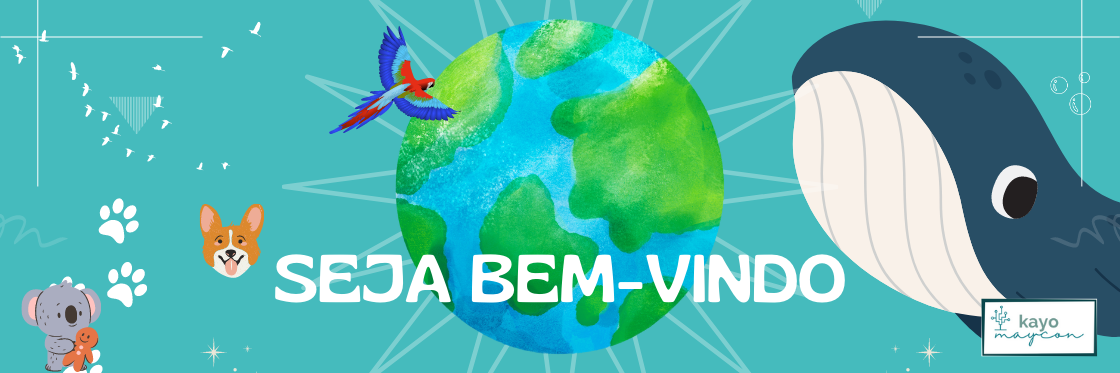
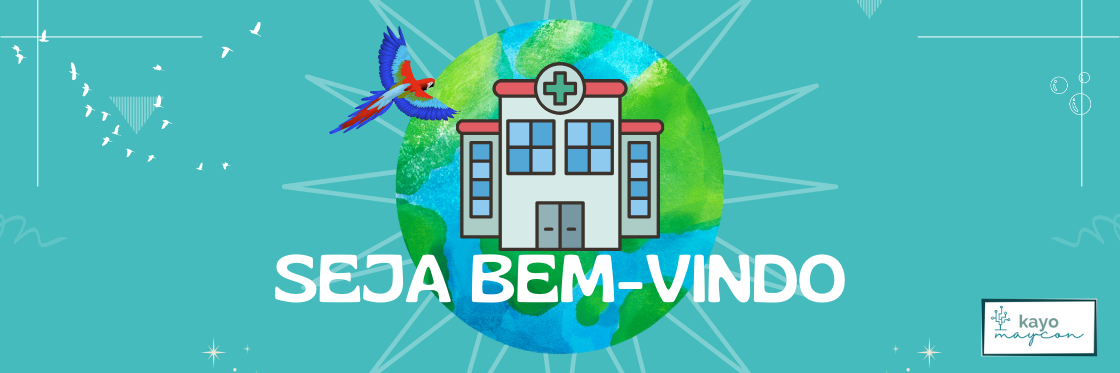
Portfólio

diff --git a/index.html b/index.html
@@ -1,9 +1,10 @@
 <!DOCTYPE html>
 <html lang="pt-br">
 <head>
-    <title>Petito</title>
+    <title>Meu Portfólio - MEDD80</title>
     <meta charset="utf-8">
     <meta name="viewport" content="width=device-width, initial-scale=1">
+    
     <link rel="stylesheet" href="css/style.css" type="text/css">
 
     <link rel="icon" href="icone/icone.png" type="image/x-icon">
@@ -25,8 +26,8 @@
                                 style="position: absolute;"
                                 src="imagens/logo.png"
                                 class="logo img-responsive"
-                                alt="Petito - Tudo sobre o mundo animal"
-                                title="Petito - Tudo sobre o mundo animal"
+                                alt="Meu Portfólio - MEDD80"
+                                title="Meu Portfólio - MEDD80"
                                 width="368"
                                 height="136"
                                 
@@ -47,12 +48,12 @@
 
             <ul>          
                 <li><a href = "#">Inicío</a></li>
-                <li><a href = "curiosidades.html">Curiosidades</a></li>
-                <li><a href = "selvagens.html">Selvagens</a></li>
-                <li><a href = "domesticos.html">Domésticos</a></li>
-                <li><a href = "extincao.html">Extinção</a></li>
-                <li><a href = "maus_tratos.html">Maus-tratos</a></li>
-                <li><a href = "nick.html">Nick</a></li>            
+                <li><a href = "modulo1.html">Módulo 1</a></li>
+                <li><a href = "selvagens.html">Módulo 2</a></li>
+                <li><a href = "domesticos.html">Módulo 3</a></li>
+                <li><a href = "extincao.html">Quem sou eu?</a></li>
+                <li><a href = "maus_tratos.html">Objetivos do projeto</a></li>
+                <li><a href = "nick.html">Galeria</a></li>            
     </ul>
 
     </nav>
@@ -66,6 +67,24 @@
                 <center><img src="imagens/Coala.gif" width="93" right="75px" ></center>
     
         </article>
+
+        <article class="card">
+        <div class="slider">            
+            <div class="slideshow" style="display: none;">
+              <figure><img alt="" src="imagens/foto1.png" /></figure>
+              <figure><img alt="" src="imagens/foto2.png" /></figure>
+              <figure><img alt="" src="imagens/foto3.png" /></figure>
+              <figure><img alt="" src="imagens/foto4.png" /></figure>
+              <figure><img alt="" src="imagens/foto5.png" /></figure>
+              <figure><img alt="" src="imagens/foto6.png" /></figure>
+              <figure><img alt="" src="imagens/foto7.png" /></figure>
+              <figure><img alt="" src="imagens/foto8.png" /></figure>
+              <span class="prev" style="display:none;"><i class="fas fa-angle-left fa-4x"></i></span>
+              <span class="next" style="display:none;"><i class="fas fa-angle-right fa-4x"></i></span>
+            </div>                    
+          </div>
+        </article>
+
         <article class="card">
 
             <h2>Já ouviu falar em animais pré-históricos?</h2>
@@ -75,6 +94,7 @@
             width="100%">
 
         </article>
+
         <article class="card">
 
             <h2>Veja mais sobre aqueles que comandam as madrugadas!</h2>

diff --git a/modulo1.html b/modulo1.html
@@ -59,9 +59,9 @@
     <div class="row">
         <section>
             <article class="card">
-                <div style="background-color:#f39c12; border-radius:10px; box-shadow:rgba(0, 0, 0, 0.15) 0px -2px inset; color:#ffffff; font-family:Cabin,sans-serif; font-size:22px; height:40px; line-height:40px; margin-left:-6px; padding-left:10px; padding-right:10px; position:relative; text-align:center; text-shadow:rgba(0, 0, 0, 0.4) 0px 1px; vertical-align:baseline"><strong>&nbsp;CURIOSIDADES DO MUNDO ANIMAL QUE VOCÊ NÃO CONHECIA&nbsp;</strong></div>
+                <div style="background-color:#f39c12; border-radius:10px; box-shadow:rgba(0, 0, 0, 0.15) 0px -2px inset; color:#ffffff; font-family:Cabin,sans-serif; font-size:22px; height:40px; line-height:40px; margin-left:-6px; padding-left:10px; padding-right:10px; position:relative; text-align:center; text-shadow:rgba(0, 0, 0, 0.4) 0px 1px; vertical-align:baseline"><strong>&nbsp;Saúde&nbsp;</strong></div>
 
-                <p style="text-align: justify; color: #333;">Quando se trata da vida animal logo imaginamos uma variedade de espécies, seres que vivem nas profundezas da terra, em densas florestas, acima das nuvens, no fundo do mar e até dentro de outros organismos. É muita coisa incrível pra se ver, por isso o Petito selecionou um apanhado de fatos curiosos que vão fazer a sua cabeça explodir!</p>
+                <p style="text-align: justify; color: #333;">"A Saúde é tudo, né?" ... "Na minha juventude, quando eu ainda era gente" ... "Uma pessoa sem Saúde não tem valor" ... "Meu corpo inteiro dói, acordo e durmo com dor" ... "Sabe... às vezes eu penso que seria melhor não viver, porque é difícil" ... "O meu maior medo é viver sendo um incômodo, dando trabalho para os outros" ... "É preciso se cuidar, pois não temos como tratar uma doença" ... "Ele sofreu um acidente de moto. Ficou cego... tão jovem e já perdeu toda uma vida" ... "Quando você pega uma doença muito séria, é pagando pelos pecados dos seus antepassados".</p>
                 <center><img style="border-radius: 30px; box-shadow: 1px 1px 3px #696969;" src="imagens/foto1.png" alt="Post - Curiosidades">
                 <p style="font-weight: bold; font-size: 10px; font-family: monospace;">(Fonte: Pixabay &#60;acessado em 20/04/2023>)</p></center>
                 <br>
